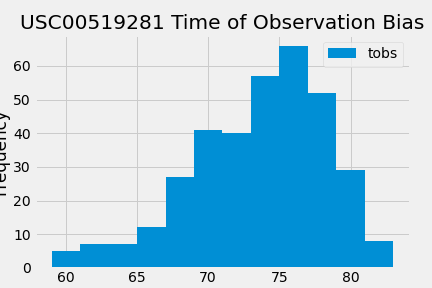
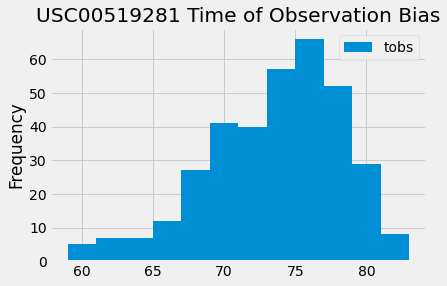
updating readme.md

Changed region(s): [[0.0, 0.028, 0.9931, 0.979]]

diff --git a/README.md b/README.md
@@ -6,18 +6,6 @@
 * The "Images" directory contains visualizations of the plots required in Step 1 of the assignment.
 * app.py is a flask API that was created in accordance with Step 2 of the assignment.  Execute the file in a terminal window to recieve the API URL created.  Paste the URL into the Internet browser of your choice.  API documentation for the /api/v1.0/<start> requires the user to input a start date in the ISO (yyyy-mm-dd) format for the API to return results.  For example, if you wanted temperature data starting on March 1, 2016 you would input the following URL into your browser: http://127.0.0.1:5000//api/v1.0/2016-03-01.  If you wanted temperature data from January 16, 2016 to September 16, 2017 then you would input the following URL into your browser: http://127.0.0.1:5000//api/v1.0/2016-01-16/2017-09-16. These are examples of dynamic API routes.
 
-### Before You Begin
-
-1. Create a new repository for this project called `sqlalchemy-challenge`. **Do not add this homework to an existing repository**.
-
-2. Clone the new repository to your computer.
-
-3. Add your Jupyter notebook and `app.py` to this folder. These will be the main scripts to run for analysis.
-
-4. Push the above changes to GitHub or GitLab.
-
-Congratulations! You've decided to treat yourself to a long holiday vacation in Honolulu, Hawaii! To help with your trip planning, you need to do some climate analysis on the area. The following outlines what you need to do.
-
 ## Step 1 - Climate Analysis and Exploration
 
 To begin, use Python and SQLAlchemy to do basic climate analysis and data exploration of your climate database. All of the following analysis should be completed using SQLAlchemy ORM queries, Pandas, and Matplotlib.
@@ -53,6 +41,7 @@ To begin, use Python and SQLAlchemy to do basic climate analysis and data explor
   * List the stations and observation counts in descending order.
 
   * Which station has the highest number of observations?
+![Precipitation_Barchart](Images/Precipitation_Barchart.png)
 
   * Hint: You will need to use a function such as `func.min`, `func.max`, `func.avg`, and `func.count` in your queries.
 
@@ -61,6 +50,8 @@ To begin, use Python and SQLAlchemy to do basic climate analysis and data explor
   * Filter by the station with the highest number of observations.
 
   * Plot the results as a histogram with `bins=12`.
+
+![TOBS_Histogram](Images/TOBS_Histogram.png)
 - - -
 
 ## Step 2 - Climate App
